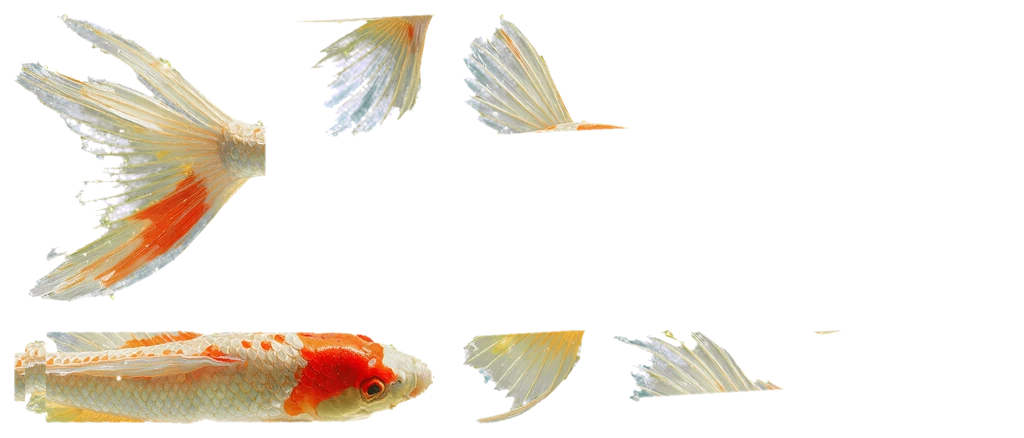
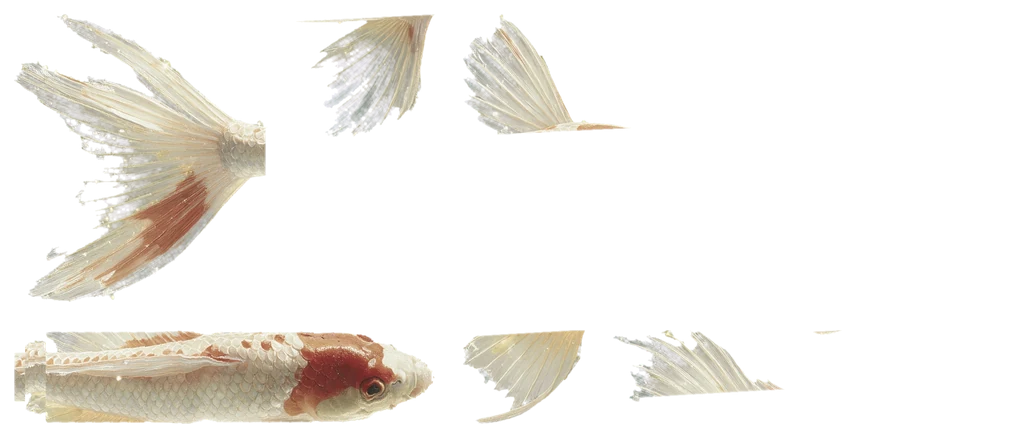
新素材調淡，配月白素雅的網頁（使用者選的方向：素材調淡，網頁不動）
- tools/tone.py：跟比較圖 docs/previews/style-match.jpg 第 2 欄一樣的調法（飽和度 0.5、一點舊紙暖色、亮 7%、對比 0.88），直接烤進圖裡，不在網頁上加濾鏡
- 蟠桃樹、金蓮、稻穗、虎爺、拂塵、雲氣、乾坤圈、火尖槍、鯉魚、神明卡片都重做；鳳凰是主角只調一半

diff --git a/tools/key_v2.py b/tools/key_v2.py
@@ -7,6 +7,7 @@ FLUX 畫不出純色背景（有筆觸、顏色也不太一樣），所以不量
   綠底：綠比紅藍高多少；洋紅底：紅藍比綠高多少；藍底：藍比紅綠高多少；黑底：多亮。
   背景那種顏色越突出 → 越透明，邊緣用一小段漸變；邊緣把混進來的背景色壓掉。
 最後只留大塊的（主體），背景上零星的小點、小火星拿掉。
+再用 tools/tone.py 把顏色調淡（使用者 2026-11-15 選「素材調淡」配月白網頁），後面的 prep 程式都吃調好的。
 """
 from pathlib import Path
 
@@ -14,12 +15,19 @@ import numpy as np
 from PIL import Image
 from scipy import ndimage
 
+import sys
+
+sys.path.insert(0, str(Path(__file__).parent))  # 用 python -I 跑時，同資料夾的 tone.py 要自己加進來
+from tone import tone  # noqa: E402  素材調淡，配月白網頁（2026-11-15 使用者選的方向）
+
 RAW = Path("assets/raw/chatgpt2")
 OUT = RAW / "keyed"
 
 # 名稱: (來源檔, 背景, 保留小塊的最小面積比例)
 # TIGHT：背景突出到角落典型值的幾成就算背景（預設 0.7；稻穗原圖在穀粒外畫了一圈淡粉紅的光，要更嚴）
 TIGHT = {"rice": 0.35}
+# 調淡的強度（1 = 跟比較圖一樣；0 = 不調）
+TONE = {}
 ITEMS = {
     "peach-tree": ("peach-tree-v2-1.png", "blue", 0.002),
     "lotus-open": ("lotus-open-v2-1.png", "magenta", 0.002),
@@ -98,6 +106,7 @@ for name, (src, bg, min_frac) in ITEMS.items():
     out, a = key(rgb, bg, TIGHT.get(name, 0.7))
     a = keep_big(a, min_frac)
     a[a < 0.03] = 0
+    out = tone(out, TONE.get(name, 1.0))
     img = Image.fromarray(np.dstack([out, a * 255]).clip(0, 255).astype(np.uint8), "RGBA")
     img.save(OUT / f"{name}.png")
     ys, xs = np.nonzero(a > 0.5)

diff --git a/tools/tone.py b/tools/tone.py
@@ -1,0 +1,44 @@
+"""把油畫風的素材調淡，配月白素雅的網頁（使用者 2026-11-15 選的方向：「素材調淡」）。
+用法（給其他 prep 程式 import）: from tone import tone；tone(rgb陣列 0～255, 強度)
+也可以單獨跑看效果: python -I tools/tone.py 圖.png 強度 輸出.png
+
+跟比較圖（docs/previews/style-match.jpg 第 2 欄）用的 CSS 濾鏡一樣，強度 1 =
+  saturate(0.5) sepia(0.22) brightness(1.07) contrast(0.88)
+強度 0.5 = 一半（鳳凰是主角，只調一半，保留紅色）。
+"""
+import sys
+
+import numpy as np
+
+# CSS 濾鏡規格裡的矩陣（Filter Effects Module Level 1）
+_LUM = np.array([0.2126, 0.7152, 0.0722])
+_SEPIA = np.array([[0.393, 0.769, 0.189], [0.349, 0.686, 0.168], [0.272, 0.534, 0.131]])
+
+
+def tone(rgb, amount=1.0):
+    """rgb：H×W×3 的 0～255 浮點數陣列；回傳調好的（一樣的形狀和範圍）"""
+    t = float(amount)
+    if t <= 0:
+        return rgb
+    x = rgb / 255.0
+    # 1. 降低飽和度：往同樣亮度的灰靠
+    s = 1 - 0.5 * t
+    lum = (x @ _LUM)[..., None]
+    x = lum + (x - lum) * s
+    # 2. 一點點舊紙的暖色
+    p = 0.22 * t
+    x = x * (1 - p) + np.clip(x @ _SEPIA.T, 0, 1) * p
+    # 3. 亮一點、4. 對比低一點
+    x = x * (1 + 0.07 * t)
+    x = (x - 0.5) * (1 - 0.12 * t) + 0.5
+    return np.clip(x * 255, 0, 255)
+
+
+if __name__ == "__main__":
+    from PIL import Image
+
+    src, amount, out = sys.argv[1], float(sys.argv[2]), sys.argv[3]
+    im = Image.open(src).convert("RGBA")
+    a = np.asarray(im).astype(float)
+    a[..., :3] = tone(a[..., :3], amount)
+    Image.fromarray(a.clip(0, 255).astype(np.uint8), "RGBA").save(out)

diff --git a/tools/prep_phoenix2.py b/tools/prep_phoenix2.py
@@ -22,6 +22,11 @@ from pathlib import Path
 import numpy as np
 from PIL import Image
 
+import sys
+
+sys.path.insert(0, str(Path(__file__).parent))  # 用 python -I 跑時，同資料夾的 tone.py 要自己加進來
+from tone import tone  # noqa: E402  素材調淡，配月白網頁（2026-11-15 使用者選的方向）
+
 RAW = Path("assets/raw/chatgpt2")
 OUT = Path("assets/phoenix2")
 CELL_W = 560
@@ -39,6 +44,7 @@ def key(path):
     rgb = np.clip((im - (1 - av) * bg) / av, 0, 255)
     rgb[..., 1] = np.minimum(rgb[..., 1], np.maximum(rgb[..., 0], rgb[..., 2]))
     a[a < 0.04] = 0
+    rgb = tone(rgb, 0.5)  # 鳳凰是主角：只調一半，保留紅色
     return np.dstack([rgb, a * 255]).clip(0, 255).astype(np.uint8)
 
 
